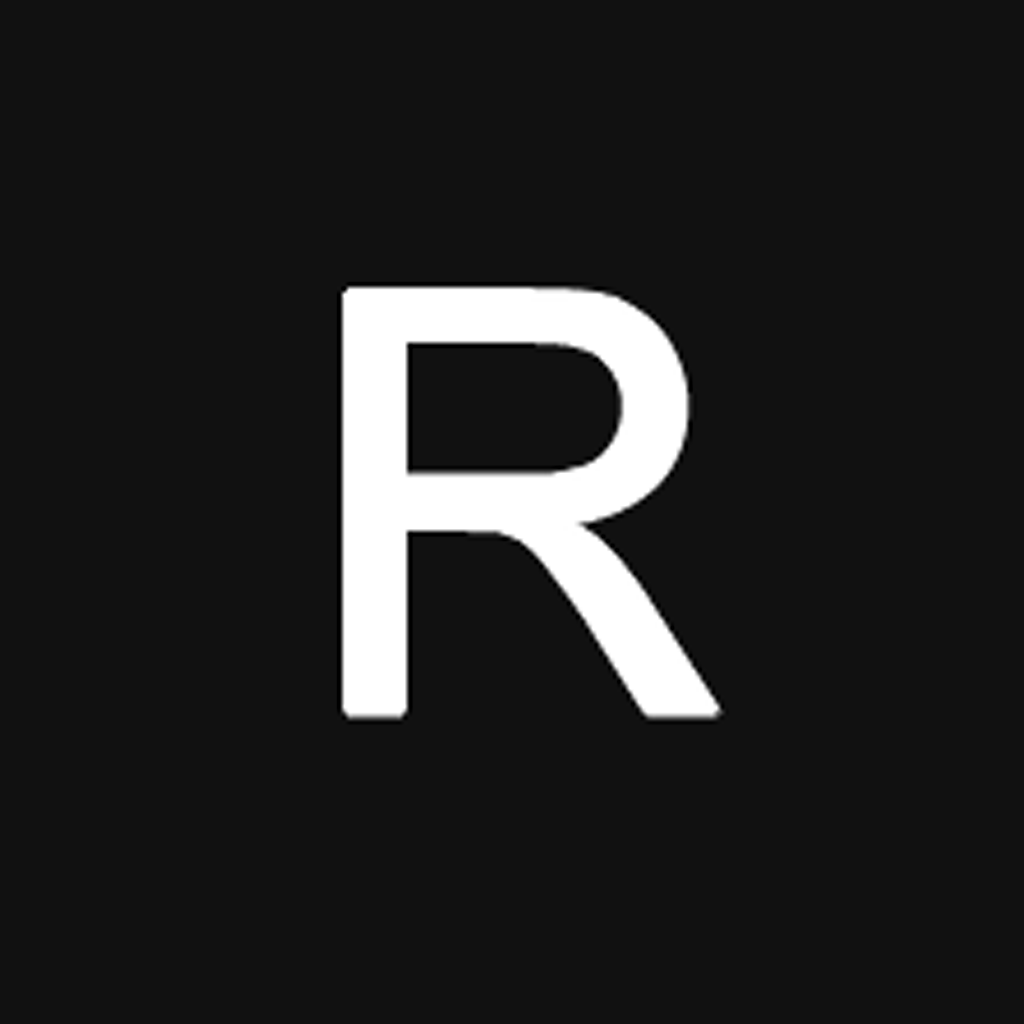
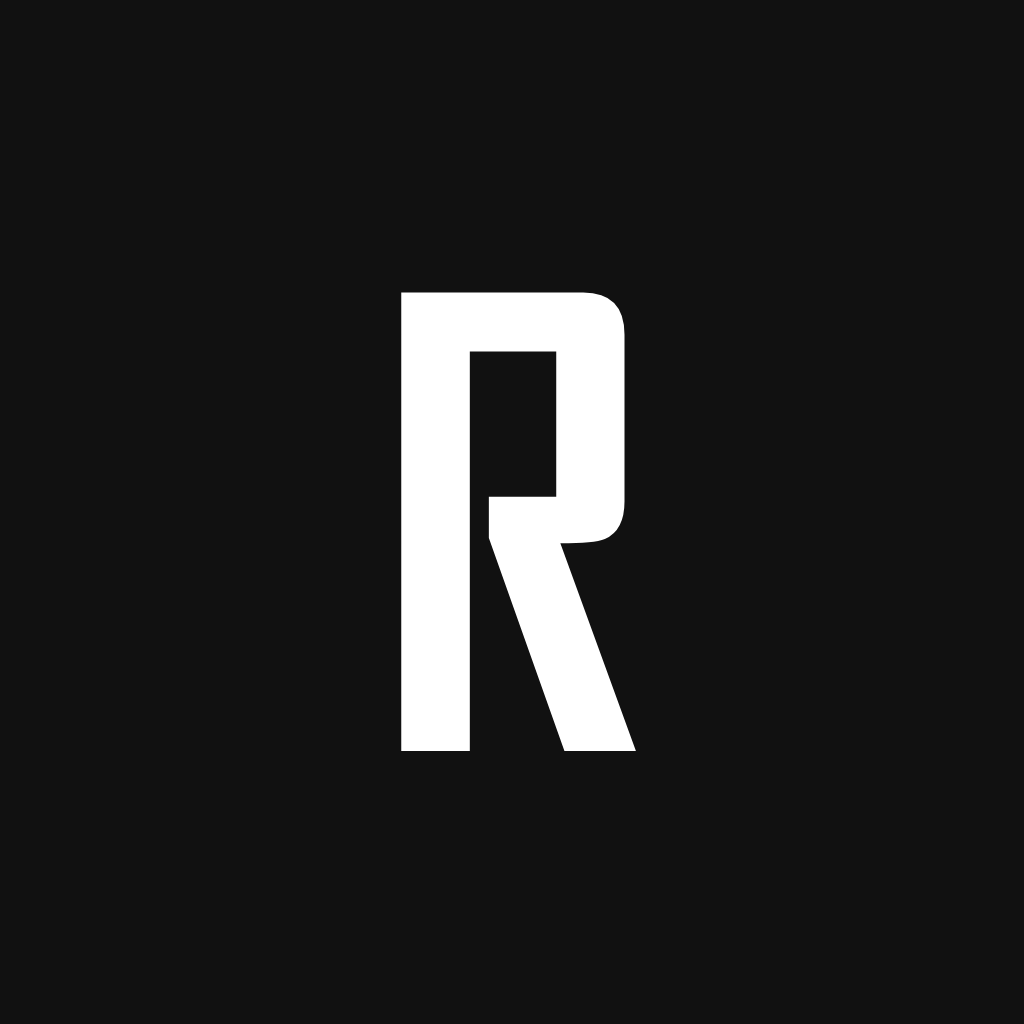
$COMMIT_MESSAGE

Changed region(s): [[0.3125, 0.2812, 0.7188, 0.75]]

diff --git a/apps/mobile/scripts/generate-assets.js b/apps/mobile/scripts/generate-assets.js
@@ -1,59 +1,69 @@
 // Re-run: node apps/mobile/scripts/generate-assets.js
-// Requires: jimp ^0.22.12 (devDependency in apps/mobile/package.json)
-// Fallback: if node-canvas cannot install (native deps), swap to `jimp` or raw PNG encoding
-// (Using jimp — node-canvas requires Visual Studio on Windows)
+// Primary: canvas ^2.11.0 (devDependency). Fallback (used): @napi-rs/canvas when node-canvas native build fails.
+// Alternative: jimp or raw PNG encoding via pngjs
 
-const Jimp = require('jimp');
+const { createCanvas } = require('@napi-rs/canvas');
 const fs = require('fs');
 const path = require('path');
 
-const assetsDir = path.join(__dirname, '..', 'assets');
-fs.mkdirSync(assetsDir, { recursive: true });
+const ASSETS_DIR = path.join(__dirname, '..', 'assets');
 
-// R glyph at ~55–60% of canvas (560–620px on 1024px). Source canvas 224×224 with 128px font
-// yields ~587px when scaled to 1024. Bold effect via double-print offset.
-const SOURCE_SIZE = 224;
-const TARGET_ICON = 1024;
-
-async function renderR(font, bgColor, boldOffset = 1) {
-  const img = new Jimp(SOURCE_SIZE, SOURCE_SIZE, bgColor);
-  const opts = { text: 'R', alignmentX: Jimp.HORIZONTAL_ALIGN_CENTER, alignmentY: Jimp.VERTICAL_ALIGN_MIDDLE };
-  img.print(font, -boldOffset, 0, opts, SOURCE_SIZE, SOURCE_SIZE);
-  img.print(font, boldOffset, 0, opts, SOURCE_SIZE, SOURCE_SIZE);
-  img.print(font, 0, -boldOffset, opts, SOURCE_SIZE, SOURCE_SIZE);
-  img.print(font, 0, boldOffset, opts, SOURCE_SIZE, SOURCE_SIZE);
-  return img;
+function createPngBuffer(width, height, bgColor, drawFn) {
+  const canvas = createCanvas(width, height);
+  const ctx = canvas.getContext('2d');
+  if (bgColor) {
+    ctx.fillStyle = bgColor;
+    ctx.fillRect(0, 0, width, height);
+  } else {
+    ctx.clearRect(0, 0, width, height);
+  }
+  drawFn(ctx, canvas);
+  return canvas.toBuffer('image/png');
 }
 
-async function main() {
-  const font128 = await Jimp.loadFont(Jimp.FONT_SANS_128_WHITE);
+// Ensure assets directory exists
+fs.mkdirSync(ASSETS_DIR, { recursive: true });
 
-  // icon.png — 1024×1024, R at ~55–60%
-  const iconR = await renderR(font128, 0x111111ff);
-  const icon = iconR.resize(TARGET_ICON, TARGET_ICON, Jimp.RESIZE_BEZIER);
-  await icon.writeAsync(path.join(assetsDir, 'icon.png'));
-  console.log('Written: apps/mobile/assets/icon.png');
-
-  // adaptive-icon.png — 1024×1024 (transparent background)
-  const adaptiveR = await renderR(font128, 0x00000000);
-  const adaptiveIcon = adaptiveR.resize(TARGET_ICON, TARGET_ICON, Jimp.RESIZE_BEZIER);
-  await adaptiveIcon.writeAsync(path.join(assetsDir, 'adaptive-icon.png'));
-  console.log('Written: apps/mobile/assets/adaptive-icon.png');
-
-  // splash.png — 1284×2778
-  const splash = new Jimp(1284, 2778, 0x111111ff);
-  splash.print(font128, 0, 0, { text: 'Roam', alignmentX: Jimp.HORIZONTAL_ALIGN_CENTER, alignmentY: Jimp.VERTICAL_ALIGN_MIDDLE }, 1284, 2778);
-  await splash.writeAsync(path.join(assetsDir, 'splash.png'));
-  console.log('Written: apps/mobile/assets/splash.png');
-
-  // favicon.png — 48×48, R at ~55–60% (scaled from same source)
-  const faviconR = await renderR(font128, 0x111111ff);
-  const favicon = faviconR.resize(48, 48, Jimp.RESIZE_BEZIER);
-  await favicon.writeAsync(path.join(assetsDir, 'favicon.png'));
-  console.log('Written: apps/mobile/assets/favicon.png');
-}
-
-main().catch((err) => {
-  console.error(err);
-  process.exit(1);
+// icon.png (1024×1024)
+const iconBuffer = createPngBuffer(1024, 1024, '#111111', (ctx) => {
+  ctx.fillStyle = '#ffffff';
+  ctx.font = 'bold 600px sans-serif';
+  ctx.textAlign = 'center';
+  ctx.textBaseline = 'middle';
+  ctx.fillText('R', 512, 512);
 });
+fs.writeFileSync(path.join(ASSETS_DIR, 'icon.png'), iconBuffer);
+console.log('Written: apps/mobile/assets/icon.png');
+
+// adaptive-icon.png (1024×1024) - transparent background
+const adaptiveIconBuffer = createPngBuffer(1024, 1024, null, (ctx) => {
+  ctx.fillStyle = '#ffffff';
+  ctx.font = 'bold 600px sans-serif';
+  ctx.textAlign = 'center';
+  ctx.textBaseline = 'middle';
+  ctx.fillText('R', 512, 512);
+});
+fs.writeFileSync(path.join(ASSETS_DIR, 'adaptive-icon.png'), adaptiveIconBuffer);
+console.log('Written: apps/mobile/assets/adaptive-icon.png');
+
+// splash.png (1284×2778)
+const splashBuffer = createPngBuffer(1284, 2778, '#111111', (ctx) => {
+  ctx.fillStyle = '#ffffff';
+  ctx.font = 'bold 150px sans-serif';
+  ctx.textAlign = 'center';
+  ctx.textBaseline = 'middle';
+  ctx.fillText('Roam', 642, 1389);
+});
+fs.writeFileSync(path.join(ASSETS_DIR, 'splash.png'), splashBuffer);
+console.log('Written: apps/mobile/assets/splash.png');
+
+// favicon.png (48×48)
+const faviconBuffer = createPngBuffer(48, 48, '#111111', (ctx) => {
+  ctx.fillStyle = '#ffffff';
+  ctx.font = 'bold 28px sans-serif';
+  ctx.textAlign = 'center';
+  ctx.textBaseline = 'middle';
+  ctx.fillText('R', 24, 24);
+});
+fs.writeFileSync(path.join(ASSETS_DIR, 'favicon.png'), faviconBuffer);
+console.log('Written: apps/mobile/assets/favicon.png');
